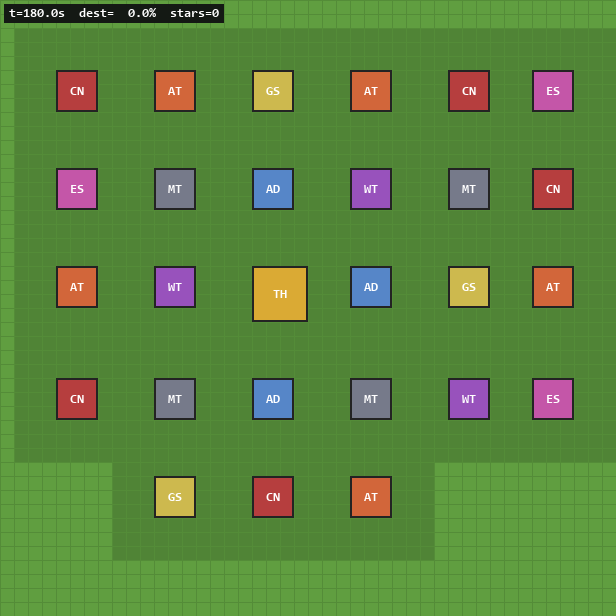
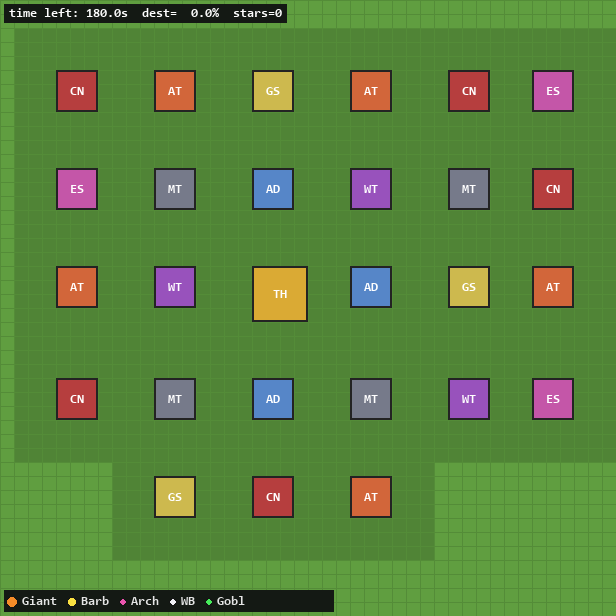
feat(render): polish troop sizing, HP bars, legend, and record ppo_attack.gif

Changed region(s): [[0.0, 0.9562, 0.5552, 1.0], [0.0308, 0.0, 0.4627, 0.0617]]

diff --git a/sim/env.py b/sim/env.py
@@ -111,6 +111,8 @@ class CoCEnv(gym.Env):
     def reset(self, seed=None, options=None):
         super().reset(seed=seed)
         self._load_base()
+        for b in self._defenses:
+            b.cooldown = float(self.np_random.uniform(0.0, b.attack_speed))
         self.troops = []
         self.projectiles = []
         self.tick = 0
@@ -125,8 +127,10 @@ class CoCEnv(gym.Env):
 
     def _spawn(self, key, x, y):
         t = self.troop_defs[key]
+        jx = float(self.np_random.uniform(-0.3, 0.3))
+        jy = float(self.np_random.uniform(-0.3, 0.3))
         self.troops.append(Troop(
-            t["name"], x + .5, y + .5, t["hp"], t["dps"], t["attack_speed"],
+            t["name"], x + 0.5 + jx, y + 0.5 + jy, t["hp"], t["dps"], t["attack_speed"],
             t["range_tiles"], t["speed_tiles_per_s"], t["favorite"], t["housing"],
             damage_vs_walls=t.get("damage_vs_walls", 0.0),
             splash_radius=t.get("splash_radius", 0.0),
@@ -209,12 +213,14 @@ class CoCEnv(gym.Env):
                 if tr.path_target_id != id(tr.target) or tr.path_wall_ver != self._wall_version:
                     path = self._get_path(tr, tr.target)
                     if path is None and not tr.target.is_wall:
-                        walls = [b for b in self.buildings if b.alive and b.is_wall]
+                        walls = [b for b in self.buildings if b.hp > 0 and b.is_wall]
                         if walls:
+                            tx, ty = tr.x, tr.y
+                            tcx, tcy = tr.target.cx, tr.target.cy
+                            hypot = math.hypot
                             wall = min(
                                 walls,
-                                key=lambda w: math.hypot(w.cx - tr.x, w.cy - tr.y)
-                                + 0.5 * math.hypot(w.cx - tr.target.cx, w.cy - tr.target.cy),
+                                key=lambda w: hypot(w.cx - tx, w.cy - ty) + 0.5 * hypot(w.cx - tcx, w.cy - tcy),
                             )
                             tr.target = wall
                             path = self._get_path(tr, wall)
@@ -415,20 +421,48 @@ class CoCEnv(gym.Env):
 
         t_colors = {
             "Giant": (245, 140, 40), "Barbarian": (250, 225, 65), "Archer": (235, 85, 175),
-            "Wall Breaker": (235, 235, 240), "Goblin": (70, 235, 90),
+            "Wall Breaker": (240, 240, 245), "Goblin": (70, 235, 90),
+        }
+        t_radii = {
+            "Giant": 9, "Barbarian": 6, "Archer": 5, "Wall Breaker": 5, "Goblin": 5,
         }
         for tr in self.troops:
             if tr.alive:
                 pos = (int(tr.x * cell), int(tr.y * cell))
-                rad = 6 if tr.name == "Giant" else 4
+                rad = t_radii.get(tr.name, 5)
                 pg.draw.circle(surf, t_colors.get(tr.name, (255, 255, 255)), pos, rad)
                 pg.draw.circle(surf, (20, 20, 20), pos, rad, 1)
+                if tr.max_hp > 0 and tr.hp < tr.max_hp:
+                    bar_w = max(8, rad * 2)
+                    bar_h = 2
+                    bx = pos[0] - bar_w // 2
+                    by = pos[1] - rad - 4
+                    frac = max(0.0, min(1.0, tr.hp / tr.max_hp))
+                    pg.draw.rect(surf, (30, 30, 30), (bx, by, bar_w, bar_h))
+                    pg.draw.rect(surf, (80, 230, 80), (bx, by, int(bar_w * frac), bar_h))
 
         stars = int(self.destruction >= 0.5) + int(self.th_destroyed) + int(self.destruction >= 1.0)
         rem = max(0.0, BATTLE_SECONDS - self.tick / TICKS_PER_SEC)
-        hud = self._font.render(f"t={rem:5.1f}s  dest={self.destruction*100:5.1f}%  stars={stars}", True, (255, 255, 255))
+        hud = self._font.render(f"time left: {rem:5.1f}s  dest={self.destruction*100:5.1f}%  stars={stars}", True, (255, 255, 255))
         pg.draw.rect(surf, (20, 25, 20), (4, 4, hud.get_width() + 10, hud.get_height() + 6))
         surf.blit(hud, (9, 7))
+
+        # Small troop legend in bottom-left
+        leg_items = [
+            ("Giant", (245, 140, 40), 6),
+            ("Barb", (250, 225, 65), 5),
+            ("Arch", (235, 85, 175), 4),
+            ("WB", (240, 240, 245), 4),
+            ("Gobl", (70, 235, 90), 4),
+        ]
+        leg_x, leg_y = 6, size_px - 22
+        pg.draw.rect(surf, (20, 25, 20), (4, size_px - 26, 330, 22))
+        for name, col, rad in leg_items:
+            pg.draw.circle(surf, col, (leg_x + rad, leg_y + 8), rad)
+            pg.draw.circle(surf, (20, 20, 20), (leg_x + rad, leg_y + 8), rad, 1)
+            ltxt = self._font.render(name, True, (230, 230, 230))
+            surf.blit(ltxt, (leg_x + rad * 2 + 4, leg_y + 1))
+            leg_x += rad * 2 + ltxt.get_width() + 14
 
         if self.render_mode == "human":
             self._screen.blit(surf, (0, 0))

diff --git a/scripts/record_demo.py b/scripts/record_demo.py
@@ -1,4 +1,4 @@
-"""Record PNG frames and an animated GIF of one rule-based baseline attack to docs/."""
+"""Record PNG frames and animated GIFs of baseline and trained PPO attacks to docs/."""
 
 import sys
 from pathlib import Path
@@ -10,11 +10,12 @@ if str(ROOT) not in sys.path:
 
 from agents.rule_based import rule_based_action
 from sim import CoCEnv
+from sim.rl_wrapper import ActionMaskCoCEnv
 
 DOCS_DIR = ROOT / "docs"
 
 
-def record_demo(base_file="base03.json", army="giant_barch", seed=0, sample_every=15):
+def record_demo(base_file="base03.json", army="giant_barch", seed=0, sample_every=15, duration=250):
     DOCS_DIR.mkdir(parents=True, exist_ok=True)
     env = CoCEnv(base_file=base_file, army=army, render_mode="rgb_array")
     env.reset(seed=seed)
@@ -49,16 +50,67 @@ def record_demo(base_file="base03.json", army="giant_barch", seed=0, sample_ever
         gif_path,
         save_all=True,
         append_images=gif_frames[1:],
-        duration=120,
+        duration=duration,
         loop=0,
     )
     env.close()
     print(
-        f"Saved {len(saved_pngs)} PNG frames and {gif_path.name} ({len(gif_frames)} gif frames) "
+        f"Saved {len(saved_pngs)} PNG frames and {gif_path.name} ({len(gif_frames)} gif frames, duration={duration}ms) "
         f"| dest={info['destruction']*100:.1f}% stars={info['stars']}"
     )
     return saved_pngs, gif_path
 
 
+def record_rl_demo(
+    base_file="base06.json",
+    army="giant_barch",
+    model_path=None,
+    seed=0,
+    duration=250,
+):
+    from sb3_contrib import MaskablePPO
+
+    DOCS_DIR.mkdir(parents=True, exist_ok=True)
+    if model_path is None:
+        candidates = sorted(Path("models").glob("ppo_m7b_seed*.zip"))
+        model_path = candidates[0] if candidates else Path("models/ppo_coc_v1.zip")
+
+    model = MaskablePPO.load(model_path, device="cpu")
+    env = ActionMaskCoCEnv(bases=[base_file], armies=[army], render_mode="rgb_array")
+    obs, _ = env.reset(seed=seed, options={"base_file": base_file, "army": army})
+
+    gif_frames = []
+    step_idx = 0
+    done = False
+    info = {}
+
+    while not done:
+        frame = env.render()
+        if step_idx % 2 == 0:
+            gif_frames.append(Image.fromarray(frame))
+        mask = env.action_masks()
+        action, _ = model.predict(obs, deterministic=True, action_masks=mask)
+        obs, _, term, trunc, info = env.step(int(action))
+        done = term or trunc
+        step_idx += 1
+
+    gif_frames.append(Image.fromarray(env.render()))
+    gif_path = DOCS_DIR / "ppo_attack.gif"
+    gif_frames[0].save(
+        gif_path,
+        save_all=True,
+        append_images=gif_frames[1:],
+        duration=duration,
+        loop=0,
+    )
+    env.close()
+    print(
+        f"Saved {gif_path.name} ({len(gif_frames)} gif frames, duration={duration}ms) "
+        f"| model={model_path.name} base={base_file} dest={info['destruction']*100:.1f}% stars={info['stars']}"
+    )
+    return gif_path
+
+
 if __name__ == "__main__":
     record_demo()
+    record_rl_demo()

diff --git a/sim/entities.py b/sim/entities.py
@@ -20,18 +20,17 @@ class Building:
     is_defense: bool = False
     is_wall: bool = False
     is_town_hall: bool = False
+    cx: float = 0.0
+    cy: float = 0.0
+
+    def __post_init__(self):
+        half = self.size / 2
+        self.cx = self.x + half
+        self.cy = self.y + half
 
     @property
     def alive(self):
         return self.hp > 0
-
-    @property
-    def cx(self):
-        return self.x + self.size / 2
-
-    @property
-    def cy(self):
-        return self.y + self.size / 2
 
 
 @dataclass
@@ -49,10 +48,15 @@ class Troop:
     damage_vs_walls: float = 0.0
     splash_radius: float = 0.0
     is_flying: bool = False
+    max_hp: float = 0.0
     target: "Building | None" = field(default=None, repr=False)
     path: list = field(default_factory=list, repr=False)
     path_wall_ver: int = -1
     path_target_id: int = -1
+
+    def __post_init__(self):
+        if self.max_hp <= 0.0:
+            self.max_hp = self.hp
 
     @property
     def alive(self):
